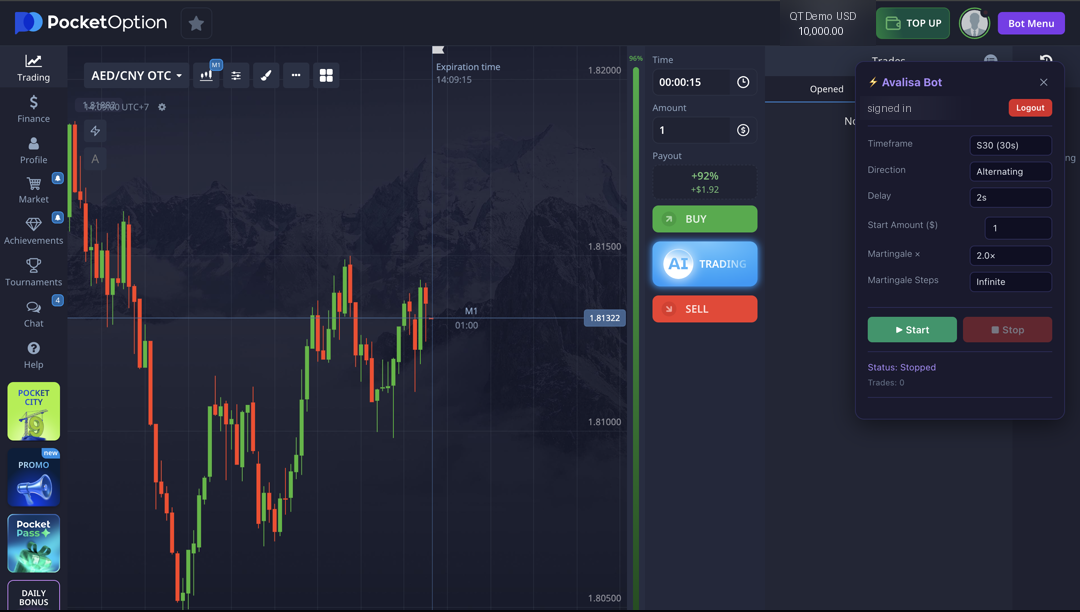
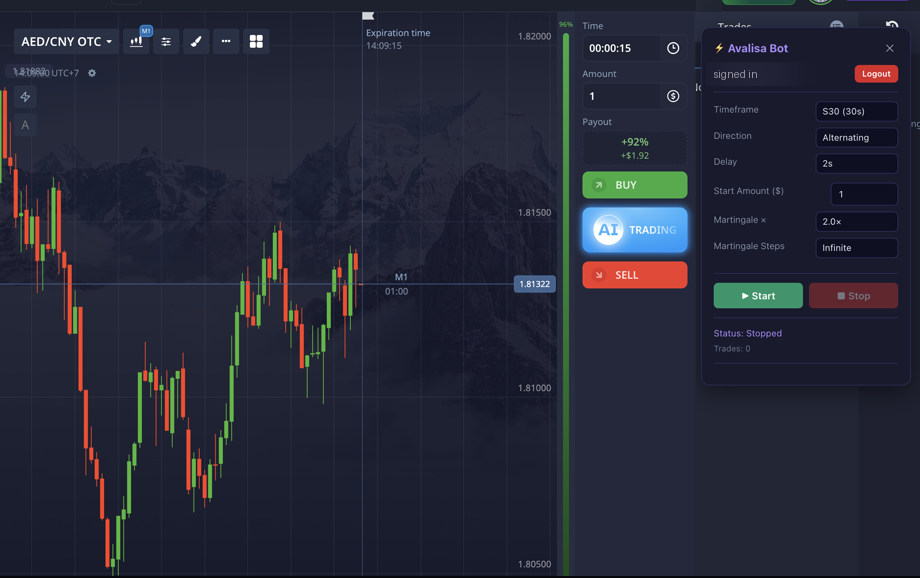
Website: hero composition fixed after visual inspection
Inspected the rendered page rather than only measuring it — the previous hero was
wrong in ways numbers did not show.

- The mascot stood in the MIDDLE of the product screenshot, covering the Avalisa
  panel: 163px of overlap on a 530px-wide shot. She is now a flex sibling beside it
  with a deliberate 36px overlap, and both sit on the same baseline (was floating
  32px above it).
- The screenshot was too small to read. Cropped out Pocket Option's nav rail and the
  dead column between the trade controls and our panel, and widened the visual
  column: 412px -> 570px rendered.
- The five-item proof strip was nested inside the narrow copy column, 142px per item,
  wrapping to two rows with an orphan. Lifted out to span the full hero grid — one
  row at 1240px.
- Headline re-sized to the column it actually gets, back to two lines.
- Phones: the desktop two-column rule had been appended AFTER the mobile collapse, so
  its minmax(27rem) floor forced a 432px column into a 375px viewport — 21 elements
  overflowed and the screenshot rendered at 253px. Single column re-asserted last,
  hero stacks, screenshot full width. Overflow 21 -> 0.

To inspect at all I had to defeat framer-motion: it leaves inline opacity:0 in a
backgrounded tab, so every capture came back blank. A stylesheet !important rule
overrides that; plain inline overrides did not.

Tests 9/9, build clean.

diff --git a/dashboard/src/styles/luxury.css b/dashboard/src/styles/luxury.css
@@ -4361,3 +4361,148 @@
 @media (max-width: 560px) {
   .avalisa-hero__mascot { right: 0; }
 }
+
+/* ---------------------------------------------------------------------------
+   Hero composition fix (2026-08-15, second pass after visual inspection).
+   Previous attempt put the mascot in the MIDDLE of the product shot, covering the
+   chart — the one thing the hero exists to show — and the shot was small enough
+   that the bot panel was illegible. Product gets the space and stays readable;
+   she stands at the right edge and overlaps only its margin.
+--------------------------------------------------------------------------- */
+.avalisa-hero__grid {
+  grid-template-columns: minmax(18rem, 0.86fr) minmax(26rem, 1.14fr);
+}
+
+.avalisa-hero__stage {
+  align-items: center;
+  justify-content: flex-start;
+  min-height: clamp(20rem, 26vw, 27rem);
+  padding-right: clamp(4rem, 11vw, 9rem);
+}
+
+.avalisa-hero__product {
+  width: 100%;
+  max-width: none;
+  /* only the outer rim is feathered, so the UI itself stays crisp and readable */
+  -webkit-mask-image: radial-gradient(135% 130% at 50% 50%, #000 78%, transparent 100%);
+  mask-image: radial-gradient(135% 130% at 50% 50%, #000 78%, transparent 100%);
+}
+
+.avalisa-hero__mascot {
+  left: auto;
+  right: 0;
+  bottom: 0;
+  height: clamp(20rem, 32vw, 33rem);
+  z-index: 2;
+}
+
+/* Five items sat 4 + 1 with one orphan on its own row. */
+.avalisa-proof-strip {
+  grid-template-columns: repeat(auto-fit, minmax(7.2rem, 1fr));
+}
+
+@media (max-width: 900px) {
+  .avalisa-hero__stage { padding-right: clamp(2.5rem, 16vw, 6rem); justify-content: center; }
+  .avalisa-hero__mascot { height: clamp(15rem, 42vw, 22rem); }
+}
+
+/* Measured: she overlapped the product by 163px of its 530px width — covering the
+   Avalisa panel on its right edge, the single most important thing in the shot.
+   Absolute positioning made the overlap a function of her height. Lay them out as
+   flex siblings instead, so the overlap is a fixed, deliberate amount. */
+.avalisa-hero__stage {
+  display: flex;
+  align-items: flex-end;
+  justify-content: flex-end;
+  padding-right: 0;
+  gap: 0;
+}
+
+.avalisa-hero__product {
+  flex: 1 1 auto;
+  min-width: 0;
+  align-self: center;
+}
+
+.avalisa-hero__mascot {
+  position: static;
+  flex: 0 0 auto;
+  margin-left: -2.25rem;
+  height: clamp(20rem, 31vw, 32rem);
+}
+
+@media (max-width: 900px) {
+  .avalisa-hero__mascot { margin-left: -1.5rem; height: clamp(15rem, 40vw, 21rem); }
+}
+
+/* Fixing the overlap shrank the product to 412px, which is not legible for a UI
+   screenshot. Give the visual column more of the row and trim her height so the
+   screenshot keeps the width it needs. */
+.avalisa-hero__grid {
+  grid-template-columns: minmax(16rem, 0.72fr) minmax(28rem, 1.28fr);
+  gap: clamp(1.2rem, 2.6vw, 2.6rem);
+}
+
+.avalisa-hero__mascot {
+  height: clamp(17rem, 24.5vw, 26rem);
+}
+
+/* The copy column is now ~433px, so 70px type wrapped "Avalisa PO Bot" onto three
+   lines again. Size the headline to the column it actually gets. */
+.avalisa-hero__copy h1 {
+  font-size: clamp(2.3rem, 3.9vw, 3.6rem);
+}
+
+/* Proof strip now sits in the hero grid itself, spanning both columns. */
+.avalisa-hero__grid > .avalisa-proof-strip {
+  grid-column: 1 / -1;
+  grid-template-columns: repeat(auto-fit, minmax(10rem, 1fr));
+}
+
+/* She was bottom-aligned to the stage while the product was centre-aligned, so her
+   feet floated ~32px above the screenshot's baseline. Ground both on the same line
+   and let her stand a little taller than the product so she reads as present rather
+   than pasted alongside. */
+.avalisa-hero__grid {
+  grid-template-columns: minmax(17rem, 0.78fr) minmax(27rem, 1.22fr);
+}
+
+.avalisa-hero__product { align-self: flex-end; }
+
+.avalisa-hero__mascot {
+  align-self: flex-end;
+  height: clamp(19rem, 27vw, 29rem);
+}
+
+/* Phones: the side-by-side hero forced a 253px-wide trading screenshot (illegible)
+   and pushed 21 elements past the viewport edge. Stack instead — screenshot full
+   width so the UI is readable, then her beneath it, right-aligned. */
+@media (max-width: 680px) {
+  .avalisa-hero__stage {
+    flex-direction: column;
+    align-items: stretch;
+    justify-content: flex-start;
+    min-height: 0;
+    padding-right: 0;
+  }
+  .avalisa-hero__product {
+    width: 100%;
+    align-self: stretch;
+    -webkit-mask-image: none;
+    mask-image: none;
+    border-radius: 0.4rem;
+  }
+  .avalisa-hero__mascot {
+    align-self: flex-end;
+    margin-left: 0;
+    margin-top: -0.5rem;
+    height: clamp(13rem, 40vw, 18rem);
+  }
+}
+
+/* Ordering fix: the two-column rule above was appended after the earlier mobile
+   collapse, so its minmax(27rem) floor applied on phones too and forced a 432px
+   column into a 375px viewport. Re-assert the single-column layout last. */
+@media (max-width: 900px) {
+  .avalisa-hero__grid { grid-template-columns: 1fr; }
+}

diff --git a/dashboard/src/pages/Landing.jsx b/dashboard/src/pages/Landing.jsx
@@ -138,15 +138,6 @@ export default function Landing() {
                 Open PO signup <ArrowRight size={15} />
               </SmartLink>
             </div>
-            <div className="avalisa-proof-strip">
-              {proofItems.map(({ icon: Icon, title, text }) => (
-                <a href={title === 'Chrome Extension' ? CHROME_EXTENSION_URL : title === 'Backend Plan Access' ? '/login' : '#webapp'} target={title === 'Chrome Extension' ? '_blank' : undefined} rel={title === 'Chrome Extension' ? 'noreferrer' : undefined} key={title}>
-                  <Icon size={21} />
-                  <strong>{title}</strong>
-                  <span>{text}</span>
-                </a>
-              ))}
-            </div>
           </motion.div>
 
           <motion.figure
@@ -170,6 +161,18 @@ export default function Landing() {
               aria-hidden="true"
             />
           </motion.figure>
+
+          {/* Full-width row: inside the copy column these five items got 142px each
+              and wrapped onto two lines with one orphan. */}
+          <div className="avalisa-proof-strip">
+            {proofItems.map(({ icon: Icon, title, text }) => (
+              <a href={title === 'Chrome Extension' ? CHROME_EXTENSION_URL : title === 'Backend Plan Access' ? '/login' : '#webapp'} target={title === 'Chrome Extension' ? '_blank' : undefined} rel={title === 'Chrome Extension' ? 'noreferrer' : undefined} key={title}>
+                <Icon size={21} />
+                <strong>{title}</strong>
+                <span>{text}</span>
+              </a>
+            ))}
+          </div>
         </div>
       </section>
 
